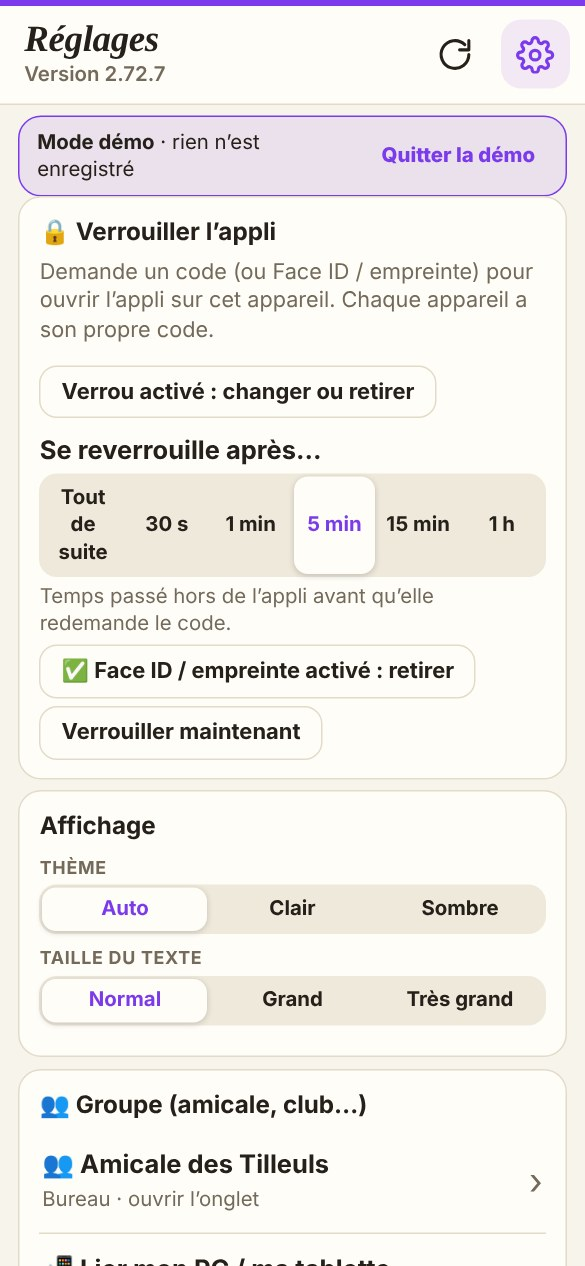
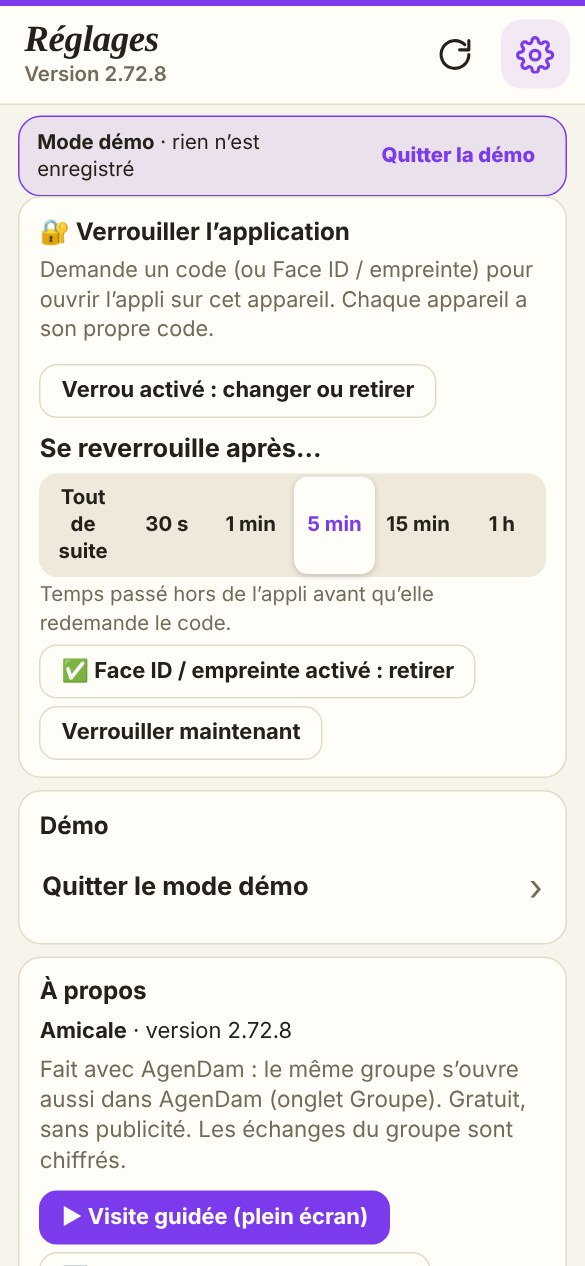
v2.72.8 : verrou rangé sous la sauvegarde (onglet 💾 & 🔐), choix toute l'application / seulement le groupe
Claude-Session: https://claude.ai/code/session_019mqjrjxHAMpMjD6Up7Rrk6

diff --git a/index.html b/index.html
@@ -1416,7 +1416,7 @@ html.ami #main{padding-bottom:env(safe-area-inset-bottom)}
 (function(){
 'use strict';
 /* ========= Agenda · données, dates, récurrences, .ics, sauvegarde ========= */
-const APP_VERSION='2.72.7';
+const APP_VERSION='2.72.8';
 /* Appli « Amicale » : même code, publiée aussi sur dam-cigogne.github.io/amicale/ (seul l'onglet du groupe). Mémoire séparée : préfixe agd-am- */
 const AMI=/\/amicale(\/|$)/.test(location.pathname)||/[?&]amicale=1/.test(location.search);
 const P=AMI?'agd-am-':'agd-';
@@ -1424,6 +1424,9 @@ const K={data:P+'data',set:P+'settings',meta:P+'meta',fired:P+'fired',ms:P+'ms'}
 const BACKUP_FILE=AMI?'amicale-sauvegarde.json':'agenda-sauvegarde.json';
 const ICS_FILE='agenda.ics';
 const CHANGELOG=[
+ {v:'2.72.8',d:'08/11/2026',items:[
+  '<b>Verrou rangé avec la sauvegarde</b> : Réglages › onglet « 💾 &amp; 🔐 », sous la Sauvegarde. Le choix devient « Toute l’application » ou « Seulement le groupe ».'
+ ]},
  {v:'2.72.7',d:'08/11/2026',items:[
   '<b>Enregistrer un fichier sur iPhone</b> : un message t’indique quoi toucher (« Enregistrer dans Fichiers ») dans la fenêtre de partage. iOS ne permet pas à une appli d’écrire directement dans Fichiers.',
   '<b>Délai du verrou au choix</b> : l’appli se reverrouille tout de suite, après 30 secondes, 1, 5, 15 minutes ou 1 heure hors de l’appli (5 minutes par défaut).',
@@ -6448,6 +6451,7 @@ function settingsView(){
   '<p class="mut" style="margin:.5rem 0 .1rem;font-size:.85rem"><b>Seulement l’agenda</b> (tes événements, sans les tâches, courses, recettes…)</p>'+
   pair(pbtn('bk-ev-save',ic('down')+' Agenda seul','Fichier des événements'),pbtn('bk-ev-restore',ic('up')+' Restaurer l’agenda','Depuis ce fichier','alt'))+
   '<details class="bk-more"><summary>Comment ça marche ?</summary><div class="warn"><b>Les appareils ne se synchronisent pas tout seuls.</b>Pour retrouver ton agenda sur un autre téléphone : <b>Sauvegarder</b> ici, envoie le fichier « '+BACKUP_FILE+' » (mail, AirDrop, messagerie, cloud…), puis <b>Restaurer</b> sur l’autre appareil.'+(canShareFiles()?'<br><br><b>Sur iPhone</b> : choisis « Enregistrer dans Fichiers » puis ton dossier (iCloud Drive…). Le téléphone te reproposera le même dossier ensuite.':'')+'</div></details></div>';
+ h+=appLockCard();
  h+='\u0001aff\u0001';
  h+='<div class="card"><h3>Affichage</h3>'+
   '<div class="tgl-row"><b>Tâches : afficher la note sous chaque tâche 📝</b><label class="tgl"><input type="checkbox" data-chg="tkNote"'+(S.tkNote===false?'':' checked')+'></label></div>'+
@@ -6477,7 +6481,7 @@ function settingsView(){
  h+=vacH+'\u0001fam\u0001'+famCard()+amSetCard();
  h+='\u0001cal\u0001'+phoneCard();
  if(OL_ON)h+=msCard();
- h+='\u0001fam\u0001'+bdCard()+appLockCard()+'\u0001cal\u0001';
+ h+='\u0001fam\u0001'+bdCard()+'\u0001cal\u0001';
  h+=importCard();
 h+='<div class="card" id="ics-card">'+
 '<h3>Fichier calendrier (.ics)</h3><p class="mut" style="margin-top:0">Pour échanger avec Google Agenda, Apple Calendrier, Outlook… Les rappels sont inclus.</p>'+
@@ -6506,7 +6510,7 @@ h+='<div class="card" id="ics-card">'+
  h+='<div class="card" id="about-card"><h3>À propos</h3><p><b>AgenDam</b> · version '+APP_VERSION+'</p><button class="btn blk" data-act="upd-check">🔄 Rechercher une mise à jour</button>'+sfold('Comment l’appli se met à jour ?',UPD_HOW)+'<p class="mut">Gratuit, sans publicité. Aucune donnée collectée : tout reste sur cet appareil.</p>'+
   '<button class="btn dng blk" data-act="wipe">'+ic('trash')+' Effacer toutes mes données</button></div>';
  h+=devCard()+'<div style="height:2rem"></div>';
- const TABS=[['sauv','Sauvegarde'],['aff','Affichage'],['agenda','Mon agenda'],['fam','Famille'],['cal','Calendriers'],['rap','Rappels'],['aide','Aide'],['about','À propos']];
+ const TABS=[['sauv','💾 & 🔐'],['aff','Affichage'],['agenda','Mon agenda'],['fam','Famille'],['cal','Calendriers'],['rap','Rappels'],['aide','Aide'],['about','À propos']];
  const B={};{const pt=h.split('\u0001');for(let i=1;i<pt.length;i+=2){B[pt[i]]=(B[pt[i]]||'')+(pt[i+1]||'')}}
  const cur=TABS.some(x=>x[0]===V.sset)?V.sset:'sauv';
  const bar='<div class="jump'+(S.setPos==='side'?' jside':'')+'">'+TABS.map(x=>'<button type="button" class="chip'+(x[0]===cur?' on':'')+'" data-act="sset" data-t="'+x[0]+'">'+x[1]+'</button>').join('')+'</div>';
@@ -10659,7 +10663,7 @@ async function amlSetPin(){
  const salt=uid();S.amlPin=salt+':'+await bdHash(a,salt);amlRelock();saveSet();render();toast('🔒 Verrou enregistré')
 }
 function appLockCard(){
- return '<div class="card"><h3>🔒 Verrouiller l’appli</h3><p class="mut" style="font-size:.85rem;margin:.2rem 0 .5rem">Demande un code (ou Face ID / empreinte) pour ouvrir l’appli sur cet appareil. Chaque appareil a son propre code.</p><button class="btn blk" data-act="aml-pin">'+(S.amlPin?'Verrou activé : changer ou retirer':'Créer un code…')+'</button>'+(S.amlPin?'<b style="display:block;margin:.6rem 0 .2rem">Se reverrouille après…</b><div class="seg" style="flex-wrap:wrap">'+[[0,'Tout de suite'],[30,'30 s'],[60,'1 min'],[300,'5 min'],[900,'15 min'],[3600,'1 h']].map(o=>'<button data-act="aml-delay" data-v="'+o[0]+'" class="'+(amlDelay()===o[0]?'on':'')+'">'+o[1]+'</button>').join('')+'</div><p class="mut" style="font-size:.8rem;margin:.2rem 0 0">Temps passé hors de l’appli avant qu’elle redemande le code.</p>':'')+(S.amlPin&&!AMI&&S.amc&&S.amc.on?'<b style="display:block;margin:.6rem 0 .2rem">Que verrouiller ?</b><div class="seg"><button data-act="aml-scope" data-v="all" class="'+(S.amlScope!=='am'?'on':'')+'">Toute l’appli</button><button data-act="aml-scope" data-v="am" class="'+(S.amlScope==='am'?'on':'')+'">Seulement l’onglet Amicale</button></div>':'')+(S.amlPin?'<button class="btn blk" data-act="aml-bio">'+(S.amlBio?'✅ Face ID / empreinte activé : retirer':'👤 Déverrouiller avec Face ID / empreinte…')+'</button><button class="btn blk" data-act="aml-lock">Verrouiller maintenant</button>':'')+'</div>'
+ return '<div class="card"><h3>🔐 Verrouiller l’application</h3><p class="mut" style="font-size:.85rem;margin:.2rem 0 .5rem">Demande un code (ou Face ID / empreinte) pour ouvrir l’appli sur cet appareil. Chaque appareil a son propre code.</p><button class="btn blk" data-act="aml-pin">'+(S.amlPin?'Verrou activé : changer ou retirer':'Créer un code…')+'</button>'+(S.amlPin?'<b style="display:block;margin:.6rem 0 .2rem">Se reverrouille après…</b><div class="seg" style="flex-wrap:wrap">'+[[0,'Tout de suite'],[30,'30 s'],[60,'1 min'],[300,'5 min'],[900,'15 min'],[3600,'1 h']].map(o=>'<button data-act="aml-delay" data-v="'+o[0]+'" class="'+(amlDelay()===o[0]?'on':'')+'">'+o[1]+'</button>').join('')+'</div><p class="mut" style="font-size:.8rem;margin:.2rem 0 0">Temps passé hors de l’appli avant qu’elle redemande le code.</p>':'')+(S.amlPin&&!AMI&&S.amc&&S.amc.on?'<b style="display:block;margin:.6rem 0 .2rem">Que verrouiller ?</b><div class="seg"><button data-act="aml-scope" data-v="all" class="'+(S.amlScope!=='am'?'on':'')+'">Toute l’application</button><button data-act="aml-scope" data-v="am" class="'+(S.amlScope==='am'?'on':'')+'">Seulement le groupe</button></div>':'')+(S.amlPin?'<button class="btn blk" data-act="aml-bio">'+(S.amlBio?'✅ Face ID / empreinte activé : retirer':'👤 Déverrouiller avec Face ID / empreinte…')+'</button><button class="btn blk" data-act="aml-lock">Verrouiller maintenant</button>':'')+'</div>'
 }
 async function amPut(zone,doc,P,kraw,hint,det){
  const a=amc(),FK=await famKeys({k:kraw||(zone==='b'?a.kB:a.kA)}),b=await famEncK(P,FK.key);b.by=String(a.me.n||'').slice(0,30);
@@ -13206,7 +13210,7 @@ function amView0(){
    mrow('am-link','📲 Lier un autre appareil','PC, iPad, nouveau téléphone : le groupe ET ton agenda perso, avec un seul code')+
    mrow('am-inv','🔢 Inviter quelqu’un',a.apriv?'Code Bureau ou Aide, valable 7 jours':a.kB?'Code Aide, valable 7 jours':'Réservé au bureau')+
    (a.apriv?mrow('am-ren','✏ Changer le nom du groupe',esc(a.nm)):'')+'</div>';
-  h+=amColCard()+pushCard()+appLockCard();
+  h+=amColCard()+pushCard();
   if(a.kB){const shm=amBmShared(),itm=a.it&&a.it[AM_BM_ID],adm=!!a.apriv||demo;
    h+='<div class="card"><h3>📝 Bulletin d’adhésion</h3>'+(adm?'<p class="mut" style="margin:.2rem 0 .4rem;font-size:.88rem">Modèle utilisé pour faire signer les amicalistes (onglet 🎖 Amicalistes › fiche › Bulletin). <b>Tu le règles ici une seule fois : tous les appareils du bureau le reçoivent automatiquement.</b></p>'+(shm&&itm?'<p class="mut" style="margin:0 0 .4rem;font-size:.82rem">✅ Partagé avec le bureau'+(itm.dirty?' (envoi en attente de connexion)':'')+'</p>':'')+mrow('bm-reg','📜 Règlement et signatures du bureau',String(amBm().tx||'').trim()?'Saison '+esc(amSaCur())+' · le bulletin reprend ton document à l’identique':'Pour un bulletin identique à ton document papier')+mrow('bm-new','📅 Préparer la saison suivante','Après l’assemblée générale : nouveau bureau, nouveaux tarifs ; les anciens bulletins restent intacts')+mrow('bm-edit','✏ Modifier le texte court','Titre, engagement, mention RGPD (si pas de règlement)')+mrow('bm-tar','💶 Tarifs par grade','Le prix se calcule tout seul sur le bulletin')+mrow('bm-imp','📥 Importer mon modèle','Word, texte ou fichier modèle')+mrow('bm-exp','📤 Exporter mon modèle','Pour un autre bureau ou une autre appli')+((a.bm||shm)?mrow('bm-rst','↺ Revenir au modèle de l’appli','Pour tout le bureau'):'')
     :'<p class="mut" style="margin:.2rem 0 .4rem;font-size:.88rem">'+(shm?'✅ Modèle et tarifs réglés par <b>'+esc((itm&&itm.by)||'l’administrateur')+'</b>, reçus automatiquement.':'Modèle de l’appli. L’administrateur du groupe peut le personnaliser : il arrivera ici tout seul.')+'</p>'+mrow('bm-exp','📤 Exporter le modèle','Fichier .json ou Word'))+'</div>'}
@@ -13236,10 +13240,11 @@ function amView0(){
 function amiFromAg(){if(!AMI)return null;try{const o=JSON.parse(localStorage.getItem('agd-settings')||'{}');return o&&o.amc&&o.amc.on&&o.amc.kA?o:null}catch(e){return null}}
 function amiTake(){const o=amiFromAg();if(!o||S.amc)return;S.amc=JSON.parse(JSON.stringify(o.amc));['amCol','amPo','amSg','amSide','amAg','amCoZ'].forEach(k=>{if(o[k]!=null)S[k]=JSON.parse(JSON.stringify(o[k]))});S.amc.last={};S.amc.pullAt=0;saveSet();setTheme();tabsApply();go('amicale');amPull(true);toast('Groupe repris d’AgenDam : tu es '+S.amc.me.n,4000)}
 function amiSettingsView(seg){
- let h='<div class="sgrid"><button class="btn pri blk" data-act="view" data-v="amicale" style="margin-bottom:.6rem">‹ Retour au groupe</button>'+amColCard()+pushCard()+appLockCard();
+ let h='<div class="sgrid"><button class="btn pri blk" data-act="view" data-v="amicale" style="margin-bottom:.6rem">‹ Retour au groupe</button>'+amColCard()+pushCard();
  h+='<div class="card"><h3>Affichage</h3><div class="set-row"><span class="lbl">Thème</span>'+seg('theme',[['auto','Auto'],['light','Clair'],['dark','Sombre']],S.theme)+'</div><div class="set-row"><span class="lbl">Taille du texte</span>'+seg('scale',[[1,'Normal'],[1.15,'Grand'],[1.3,'Très grand']],S.scale)+'</div></div>';
  h+=amSetCard();
  h+='<div class="card" id="data-card"><h3>💾 Sauvegarde</h3><p class="mut" style="margin:.1rem 0 .4rem;font-size:.88rem">Un fichier de secours avec ton groupe (pour changer de téléphone).'+(META.lastBackup?' Dernière : <b>'+fmtDate(META.lastBackup)+'</b>.':'')+'</p>'+pair(pbtn('bk-save',ic('down')+' Sauvegarder','Fichier de secours'),pbtn('bk-restore',ic('up')+' Restaurer','Depuis un fichier','alt'))+'</div>';
+ h+=appLockCard();
  h+='<div class="card"><h3>Démo</h3>'+(demo?mrow('exitdemo','Quitter le mode démo',''):mrow('demo','Voir le mode démo','Un groupe d’exemple'))+(installEv?'<button class="btn pri blk" data-act="install">Installer l’appli sur cet appareil</button>':'')+'</div>';
  h+='<div class="card" id="about-card"><h3>À propos</h3><p><b>Amicale</b> · version '+APP_VERSION+'</p><p class="mut" style="font-size:.88rem">Fait avec AgenDam : le même groupe s’ouvre aussi dans AgenDam (onglet Groupe). Gratuit, sans publicité. Les échanges du groupe sont chiffrés.</p><a class="btn pri blk" href="visite.html" target="_blank" rel="noopener" style="text-decoration:none;text-align:center">▶ Visite guidée (plein écran)</a><button class="btn blk" data-act="hist">🆕 Nouveautés : ce qui a changé</button><a class="btn blk" href="guide.html" target="_blank" rel="noopener" style="text-decoration:none;text-align:center">📖 Guide du bureau à lire</a><button class="btn blk" data-act="upd-check">🔄 Rechercher une mise à jour</button><button class="btn dng blk" data-act="wipe">'+ic('trash')+' Effacer toutes mes données</button></div>';
  return{html:h+'<div style="height:2rem"></div></div>',fixed:false};

diff --git a/visite.html b/visite.html
@@ -301,16 +301,16 @@ C.splice(k>=0?k+1:3,0,{em:'🔔',t:'Les notifications',p:'Pour être prévenu qu
  ['n7-notif-test','test','Vérifier que ça marche','Touche <b>Envoyer un test</b> : une notification « ✅ Test réussi » arrive. Ensuite, le titre dit d’où vient le changement : <b>🛒 Amicale · Courses</b>, <b>☑ Amicale · Tâches</b>, <b>🏠 Famille · Agenda</b>…<br><small>Jamais pour tes propres changements, au plus une toutes les 2 minutes. Pour arrêter : remets l’interrupteur sur non.</small>']
 ]})}
 /* 🔒 chapitre verrou de l'appli (08/11) */
-FIX['n9-verrou-activer']={mk:[25,30.9,40,5]};FIX['n9-verrou-options']={bio:[44,53,76,5]};FIX['n9-verrou-ecran']={ouv:[50,61.3,54,6.5]};
+FIX['n9-verrou-activer']={mk:[25,33.6,40,5]};FIX['n9-verrou-options']={bio:[44,53,76,5]};FIX['n9-verrou-ecran']={ouv:[50,61.3,54,6.5]};
 {const k=C.findIndex(c=>!Array.isArray(c)&&c.t==='Les notifications');
 C.splice(k>=0?k+1:4,0,{em:'🔒',t:'Verrouiller l’appli',p:'Une <b>sécurité en plus</b> : même si quelqu’un prend ton téléphone ouvert, il ne voit rien sans ton code ou ton visage.',s:[
- ['n9-verrou-activer','mk','Où l’activer','Touche ⚙ <b>Réglages</b>, puis <b>Verrouiller l’appli</b> › « Créer un code… » : choisis 4 à 8 chiffres.<br><small>C’est facultatif, et chaque téléphone a son propre code. Dans AgenDam, tu peux ne verrouiller que l’onglet Amicale.</small>'],
+ ['n9-verrou-activer','mk','Où l’activer','Touche ⚙ <b>Réglages</b>, puis, sous la Sauvegarde (onglet <b>💾 &amp; 🔐</b> dans AgenDam), <b>Verrouiller l’application</b> › « Créer un code… » : choisis 4 à 8 chiffres.<br><small>C’est facultatif, et chaque téléphone a son propre code. Dans AgenDam, tu peux choisir : « Toute l’application » ou « Seulement le groupe ».</small>'],
  ['n9-verrou-options','bio','Face ID ou empreinte','Touche « <b>Déverrouiller avec Face ID / empreinte</b> » : ensuite l’appli s’ouvre d’un regard ou d’un doigt. Le <b>code reste le secours</b>.<br>Juste au-dessus, choisis <b>après combien de temps</b> l’appli se reverrouille : tout de suite, 30 s, 1, 5, 15 min ou 1 h.<br><small>Pour changer ou retirer le verrou : même endroit.</small>'],
  ['n9-verrou-ecran','ouv','À l’ouverture','Quand tu rouvres l’appli après le délai choisi (5 minutes par défaut), elle est <b>verrouillée</b> : touche « Déverrouiller ». C’est <b>une sécurité en plus</b> du code de ton téléphone, pas à sa place.<br><small>Code oublié : il faut réinstaller l’appli et rejoindre le groupe avec un nouveau code d’invitation.</small>']
 ]})}
 const Q=[];C.forEach((c,ci)=>{Q.push({card:c,ci});(c.s||[]).forEach(s=>Q.push({ci,img:s[0],mk:s[1],t:s[2],p:s[3]}))});Q.push({card:FIN,fin:1,ci:C.length});
 let i=0;const $=s=>document.querySelector(s);
-Q.forEach(q=>{if(q.img){const im=new Image();im.src='guide/'+q.img+'.jpg?v=20261108c'}});
+Q.forEach(q=>{if(q.img){const im=new Image();im.src='guide/'+q.img+'.jpg?v=20261108d'}});
 function box(q){if(q.mk==='*')return[50,30,100,40];const f=(FIX[q.img]||{})[q.mk];return f||((MK[q.img]||{})[q.mk])||[50,50,80,10]}
 function show(){
  document.querySelectorAll('.card').forEach(e=>e.remove());const MD=vMode(),autoLand=innerWidth>innerHeight*1.15&&innerWidth>=700,landOn=MD==='paysage'||(MD==='auto'&&(autoLand||(innerWidth>innerHeight&&innerHeight<620))),crop=landOn&&innerHeight<620;document.body.classList.toggle('crop',crop);document.body.classList.toggle('land',landOn);$('#md').textContent=MD==='portrait'?'📱':MD==='paysage'?'🖥':'⇄';$('#bub').style.display=Q[i].card?'none':'';
@@ -319,7 +319,7 @@ function show(){
  if(q.card){const d=document.createElement('div');d.className='card';
   d.innerHTML='<div class="em">'+q.card.em+'</div><h1>'+q.card.t+'</h1><p>'+q.card.p+'</p>'+(q.fin?'<div class="lnk"><a href="./">📱 Ouvrir l’appli</a><a href="./?demo=1">🧪 Essayer la démo</a><a href="guide.html">📖 Le guide à lire</a></div><button class="go" data-r="1">↺ Revoir la visite</button>':'<button class="go">'+(i===0?'C’est parti ! ▶':'Voir ▶')+'</button>'+(i===0?'<div class="sm">Astuce : touche à droite pour avancer, à gauche pour revenir. Flèches du clavier sur ordinateur.</div>':''));
   document.body.appendChild(d);if(q.fin)confetti();return}
- const img=$('#img'),src='guide/'+q.img+'.jpg?v=20261108c';if(!img.src.endsWith(src)){img.style.opacity=0;img.onload=()=>img.style.opacity=1;img.src=src}
+ const img=$('#img'),src='guide/'+q.img+'.jpg?v=20261108d';if(!img.src.endsWith(src)){img.style.opacity=0;img.onload=()=>img.style.opacity=1;img.src=src}
  const paper=q.img[0]==='p';document.body.classList.toggle('paperon',paper);$('#zw').classList.toggle('paper',paper);
  const [x,y,w,h]=box(q),H=$('#hole'),pad=1.2;H.style.display=paper?'none':'';
  H.style.left=(x-w/2-pad)+'%';H.style.top=(y-h/2-pad*0.5)+'%';H.style.width=(w+2*pad)+'%';H.style.height=(h+pad)+'%';

diff --git a/sw.js b/sw.js
@@ -2,7 +2,7 @@
    Le nom du cache porte la version : à chaque nouvelle version, changer VERSION
    ici ET APP_VERSION dans index.html. Préfixe « agd- » : on ne touche jamais
    aux caches des autres applis du même domaine (mc-, glf-…). */
-const VERSION = '2.72.7';
+const VERSION = '2.72.8';
 const CACHE = 'agd-cache-v' + VERSION;
 const ASSETS = [
   './',
